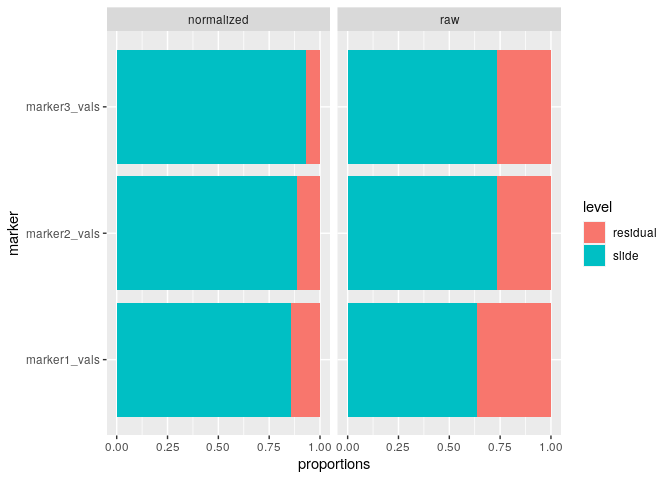
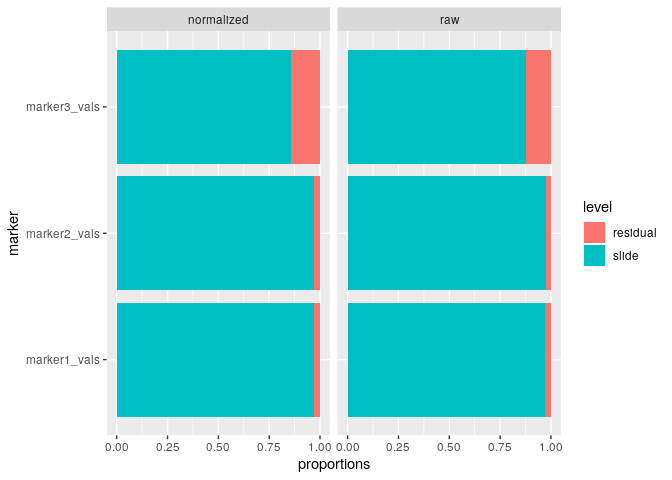
update readme

Changed region(s): [[0.6875, 0.0938, 0.8125, 0.875], [0.4062, 0.0938, 0.4688, 0.875]]

diff --git a/README.md b/README.md
@@ -31,12 +31,12 @@ effects.
 library(mxnorm)
 head(mx_sample)
 #>   slide_id image_id marker1_vals marker2_vals marker3_vals metadata1_vals
-#> 1   slide1   image1           91          171         7766            yes
-#> 2   slide1   image1           94          560          267            yes
-#> 3   slide1   image1           29          572          597            yes
-#> 4   slide1   image1           83          922         8551            yes
-#> 5   slide1   image1           64          575         9454            yes
-#> 6   slide1   image1           52          971         9870            yes
+#> 1   slide1   image1           15           17           28            yes
+#> 2   slide1   image1           11           22           31             no
+#> 3   slide1   image1           12           16           22            yes
+#> 4   slide1   image1           11           19           33            yes
+#> 5   slide1   image1           12           21           24            yes
+#> 6   slide1   image1           11           17           19            yes
 ```
 
 ## `mx_dataset` objects
@@ -60,10 +60,10 @@ str(mx_dataset)
 #>  $ data         :'data.frame':   3000 obs. of  6 variables:
 #>   ..$ slide_id      : chr [1:3000] "slide1" "slide1" "slide1" "slide1" ...
 #>   ..$ image_id      : chr [1:3000] "image1" "image1" "image1" "image1" ...
-#>   ..$ marker1_vals  : num [1:3000] 91 94 29 83 64 52 74 13 66 71 ...
-#>   ..$ marker2_vals  : num [1:3000] 171 560 572 922 575 971 471 788 499 32 ...
-#>   ..$ marker3_vals  : num [1:3000] 7766 267 597 8551 9454 ...
-#>   ..$ metadata1_vals: chr [1:3000] "yes" "yes" "yes" "yes" ...
+#>   ..$ marker1_vals  : num [1:3000] 15 11 12 11 12 11 16 12 11 10 ...
+#>   ..$ marker2_vals  : num [1:3000] 17 22 16 19 21 17 18 19 19 23 ...
+#>   ..$ marker3_vals  : num [1:3000] 28 31 22 33 24 19 36 32 22 25 ...
+#>   ..$ metadata1_vals: chr [1:3000] "yes" "no" "yes" "yes" ...
 #>  $ slide_id     : chr "slide_id"
 #>  $ image_id     : chr "image_id"
 #>  $ marker_cols  : chr [1:3] "marker1_vals" "marker2_vals" "marker3_vals"
@@ -86,12 +86,12 @@ The `mx_dataset` object has normalized data in the following form:
 ``` r
 head(mx_norm$norm_data)
 #>   slide_id image_id marker1_vals marker2_vals marker3_vals metadata1_vals
-#> 1   slide1   image1     1.963788     2.235528     3.890253            yes
-#> 2   slide1   image1     1.977724     2.748963     2.428135            yes
-#> 3   slide1   image1     1.477121     2.758155     2.776701            yes
-#> 4   slide1   image1     1.924279     2.965202     3.932068            yes
-#> 5   slide1   image1     1.812913     2.760422     3.975662            yes
-#> 6   slide1   image1     1.724276     2.987666     3.994361            yes
+#> 1   slide1   image1     1.204120     1.255273     1.462398            yes
+#> 2   slide1   image1     1.079181     1.361728     1.505150             no
+#> 3   slide1   image1     1.113943     1.230449     1.361728            yes
+#> 4   slide1   image1     1.079181     1.301030     1.531479            yes
+#> 5   slide1   image1     1.113943     1.342423     1.397940            yes
+#> 6   slide1   image1     1.079181     1.255273     1.301030            yes
 ```
 
 And the `mx_dataset` object now includes the following attributes:
@@ -102,10 +102,10 @@ str(mx_norm)
 #>  $ data         :'data.frame':   3000 obs. of  6 variables:
 #>   ..$ slide_id      : chr [1:3000] "slide1" "slide1" "slide1" "slide1" ...
 #>   ..$ image_id      : chr [1:3000] "image1" "image1" "image1" "image1" ...
-#>   ..$ marker1_vals  : num [1:3000] 91 94 29 83 64 52 74 13 66 71 ...
-#>   ..$ marker2_vals  : num [1:3000] 171 560 572 922 575 971 471 788 499 32 ...
-#>   ..$ marker3_vals  : num [1:3000] 7766 267 597 8551 9454 ...
-#>   ..$ metadata1_vals: chr [1:3000] "yes" "yes" "yes" "yes" ...
+#>   ..$ marker1_vals  : num [1:3000] 15 11 12 11 12 11 16 12 11 10 ...
+#>   ..$ marker2_vals  : num [1:3000] 17 22 16 19 21 17 18 19 19 23 ...
+#>   ..$ marker3_vals  : num [1:3000] 28 31 22 33 24 19 36 32 22 25 ...
+#>   ..$ metadata1_vals: chr [1:3000] "yes" "no" "yes" "yes" ...
 #>  $ slide_id     : chr "slide_id"
 #>  $ image_id     : chr "image_id"
 #>  $ marker_cols  : chr [1:3] "marker1_vals" "marker2_vals" "marker3_vals"
@@ -113,10 +113,10 @@ str(mx_norm)
 #>  $ norm_data    :'data.frame':   3000 obs. of  6 variables:
 #>   ..$ slide_id      : chr [1:3000] "slide1" "slide1" "slide1" "slide1" ...
 #>   ..$ image_id      : chr [1:3000] "image1" "image1" "image1" "image1" ...
-#>   ..$ marker1_vals  : num [1:3000] 1.96 1.98 1.48 1.92 1.81 ...
-#>   ..$ marker2_vals  : num [1:3000] 2.24 2.75 2.76 2.97 2.76 ...
-#>   ..$ marker3_vals  : num [1:3000] 3.89 2.43 2.78 3.93 3.98 ...
-#>   ..$ metadata1_vals: chr [1:3000] "yes" "yes" "yes" "yes" ...
+#>   ..$ marker1_vals  : num [1:3000] 1.2 1.08 1.11 1.08 1.11 ...
+#>   ..$ marker2_vals  : num [1:3000] 1.26 1.36 1.23 1.3 1.34 ...
+#>   ..$ marker3_vals  : num [1:3000] 1.46 1.51 1.36 1.53 1.4 ...
+#>   ..$ metadata1_vals: chr [1:3000] "yes" "no" "yes" "yes" ...
 #>  $ scale        : chr "log10"
 #>  $ method       : chr "None"
 #>  - attr(*, "class")= chr "mx_dataset"
@@ -140,12 +140,12 @@ the following form:
 ``` r
 head(mx_otsu$otsu_data)
 #>   slide_id       marker table slide_threshold marker_threshold misclass_error
-#> 1   slide1 marker1_vals   raw    5.019531e+01         288.5742      0.4773333
-#> 2   slide2 marker1_vals   raw    5.859375e-03         288.5742      0.6280000
-#> 3   slide3 marker1_vals   raw    8.702734e+01         288.5742      0.7440000
-#> 4   slide4 marker1_vals   raw    3.740371e+02         288.5742      0.1146667
-#> 5   slide1 marker2_vals   raw    4.829395e+02         341.7969      0.1266667
-#> 6   slide2 marker2_vals   raw    4.003906e+00         341.7969      0.6773333
+#> 1   slide1 marker1_vals   raw        12.01758         54.89844      0.4506667
+#> 2   slide2 marker1_vals   raw        20.01367         54.89844      0.4306667
+#> 3   slide3 marker1_vals   raw        87.05664         54.89844      0.2573333
+#> 4   slide4 marker1_vals   raw        44.00391         54.89844      0.3386667
+#> 5   slide1 marker2_vals   raw        19.00977         52.90039      0.5333333
+#> 6   slide2 marker2_vals   raw        19.99219         52.90039      0.5320000
 ```
 
 And the `mx_dataset` object now includes the following attributes:
@@ -156,10 +156,10 @@ str(mx_otsu)
 #>  $ data         :'data.frame':   3000 obs. of  6 variables:
 #>   ..$ slide_id      : chr [1:3000] "slide1" "slide1" "slide1" "slide1" ...
 #>   ..$ image_id      : chr [1:3000] "image1" "image1" "image1" "image1" ...
-#>   ..$ marker1_vals  : num [1:3000] 91 94 29 83 64 52 74 13 66 71 ...
-#>   ..$ marker2_vals  : num [1:3000] 171 560 572 922 575 971 471 788 499 32 ...
-#>   ..$ marker3_vals  : num [1:3000] 7766 267 597 8551 9454 ...
-#>   ..$ metadata1_vals: chr [1:3000] "yes" "yes" "yes" "yes" ...
+#>   ..$ marker1_vals  : num [1:3000] 15 11 12 11 12 11 16 12 11 10 ...
+#>   ..$ marker2_vals  : num [1:3000] 17 22 16 19 21 17 18 19 19 23 ...
+#>   ..$ marker3_vals  : num [1:3000] 28 31 22 33 24 19 36 32 22 25 ...
+#>   ..$ metadata1_vals: chr [1:3000] "yes" "no" "yes" "yes" ...
 #>  $ slide_id     : chr "slide_id"
 #>  $ image_id     : chr "image_id"
 #>  $ marker_cols  : chr [1:3] "marker1_vals" "marker2_vals" "marker3_vals"
@@ -167,19 +167,19 @@ str(mx_otsu)
 #>  $ norm_data    :'data.frame':   3000 obs. of  6 variables:
 #>   ..$ slide_id      : chr [1:3000] "slide1" "slide1" "slide1" "slide1" ...
 #>   ..$ image_id      : chr [1:3000] "image1" "image1" "image1" "image1" ...
-#>   ..$ marker1_vals  : num [1:3000] 1.96 1.98 1.48 1.92 1.81 ...
-#>   ..$ marker2_vals  : num [1:3000] 2.24 2.75 2.76 2.97 2.76 ...
-#>   ..$ marker3_vals  : num [1:3000] 3.89 2.43 2.78 3.93 3.98 ...
-#>   ..$ metadata1_vals: chr [1:3000] "yes" "yes" "yes" "yes" ...
+#>   ..$ marker1_vals  : num [1:3000] 1.2 1.08 1.11 1.08 1.11 ...
+#>   ..$ marker2_vals  : num [1:3000] 1.26 1.36 1.23 1.3 1.34 ...
+#>   ..$ marker3_vals  : num [1:3000] 1.46 1.51 1.36 1.53 1.4 ...
+#>   ..$ metadata1_vals: chr [1:3000] "yes" "no" "yes" "yes" ...
 #>  $ scale        : chr "log10"
 #>  $ method       : chr "None"
 #>  $ otsu_data    :'data.frame':   24 obs. of  6 variables:
 #>   ..$ slide_id        : chr [1:24] "slide1" "slide2" "slide3" "slide4" ...
 #>   ..$ marker          : chr [1:24] "marker1_vals" "marker1_vals" "marker1_vals" "marker1_vals" ...
 #>   ..$ table           : chr [1:24] "raw" "raw" "raw" "raw" ...
-#>   ..$ slide_threshold : num [1:24] 5.02e+01 5.86e-03 8.70e+01 3.74e+02 4.83e+02 ...
-#>   ..$ marker_threshold: num [1:24] 289 289 289 289 342 ...
-#>   ..$ misclass_error  : num [1:24] 0.477 0.628 0.744 0.115 0.127 ...
+#>   ..$ slide_threshold : num [1:24] 12 20 87.1 44 19 ...
+#>   ..$ marker_threshold: num [1:24] 54.9 54.9 54.9 54.9 52.9 ...
+#>   ..$ misclass_error  : num [1:24] 0.451 0.431 0.257 0.339 0.533 ...
 #>  $ otsu_table   : chr "both"
 #>  $ threshold    : chr "otsu"
 #>  - attr(*, "class")= chr "mx_dataset"
@@ -201,24 +201,25 @@ mx_umap = run_reduce_umap(mx_otsu,
 ```
 
 This adds UMAP dimensions to our `mx_dataset` object in the following
-form:
+form (note the inclusion of `slide_id` as an identifier, which we’ll use
+later):
 
 ``` r
 head(mx_umap$umap_data)
-#>      marker1_vals marker2_vals marker3_vals metadata1_vals table          U1
-#> 1717           98           68           74             no   raw  -5.8276359
-#> 2279           29           29           29             no   raw  -0.6148791
-#> 335            68          146         7149            yes   raw   7.3799556
-#> 1055            0            6            6            yes   raw -16.3709385
-#> 251            33          905         9365            yes   raw   8.8375052
-#> 1088            0            4            4            yes   raw  -3.3954894
-#>              U2
-#> 1717  -2.776944
-#> 2279   4.420231
-#> 335  -17.569706
-#> 1055   5.339620
-#> 251  -22.088848
-#> 1088  17.994051
+#>      marker1_vals marker2_vals marker3_vals metadata1_vals slide_id table
+#> 970            19           20           29             no   slide2   raw
+#> 252            10           22           24            yes   slide1   raw
+#> 1530           77           99           26            yes   slide3   raw
+#> 2047           95           64           57            yes   slide3   raw
+#> 2336           58           94           82             no   slide4   raw
+#> 1098           15           13           28            yes   slide2   raw
+#>              U1        U2
+#> 970   -9.807456  1.184323
+#> 252  -12.903388 -6.301204
+#> 1530   8.887341 11.085225
+#> 2047  10.602274  7.860260
+#> 2336   9.784737 -5.957173
+#> 1098 -11.371432 -2.673467
 ```
 
 And the `mx_dataset` object now includes the following attributes:
@@ -229,10 +230,10 @@ str(mx_umap)
 #>  $ data         :'data.frame':   3000 obs. of  6 variables:
 #>   ..$ slide_id      : chr [1:3000] "slide1" "slide1" "slide1" "slide1" ...
 #>   ..$ image_id      : chr [1:3000] "image1" "image1" "image1" "image1" ...
-#>   ..$ marker1_vals  : num [1:3000] 91 94 29 83 64 52 74 13 66 71 ...
-#>   ..$ marker2_vals  : num [1:3000] 171 560 572 922 575 971 471 788 499 32 ...
-#>   ..$ marker3_vals  : num [1:3000] 7766 267 597 8551 9454 ...
-#>   ..$ metadata1_vals: chr [1:3000] "yes" "yes" "yes" "yes" ...
+#>   ..$ marker1_vals  : num [1:3000] 15 11 12 11 12 11 16 12 11 10 ...
+#>   ..$ marker2_vals  : num [1:3000] 17 22 16 19 21 17 18 19 19 23 ...
+#>   ..$ marker3_vals  : num [1:3000] 28 31 22 33 24 19 36 32 22 25 ...
+#>   ..$ metadata1_vals: chr [1:3000] "yes" "no" "yes" "yes" ...
 #>  $ slide_id     : chr "slide_id"
 #>  $ image_id     : chr "image_id"
 #>  $ marker_cols  : chr [1:3] "marker1_vals" "marker2_vals" "marker3_vals"
@@ -240,29 +241,30 @@ str(mx_umap)
 #>  $ norm_data    :'data.frame':   3000 obs. of  6 variables:
 #>   ..$ slide_id      : chr [1:3000] "slide1" "slide1" "slide1" "slide1" ...
 #>   ..$ image_id      : chr [1:3000] "image1" "image1" "image1" "image1" ...
-#>   ..$ marker1_vals  : num [1:3000] 1.96 1.98 1.48 1.92 1.81 ...
-#>   ..$ marker2_vals  : num [1:3000] 2.24 2.75 2.76 2.97 2.76 ...
-#>   ..$ marker3_vals  : num [1:3000] 3.89 2.43 2.78 3.93 3.98 ...
-#>   ..$ metadata1_vals: chr [1:3000] "yes" "yes" "yes" "yes" ...
+#>   ..$ marker1_vals  : num [1:3000] 1.2 1.08 1.11 1.08 1.11 ...
+#>   ..$ marker2_vals  : num [1:3000] 1.26 1.36 1.23 1.3 1.34 ...
+#>   ..$ marker3_vals  : num [1:3000] 1.46 1.51 1.36 1.53 1.4 ...
+#>   ..$ metadata1_vals: chr [1:3000] "yes" "no" "yes" "yes" ...
 #>  $ scale        : chr "log10"
 #>  $ method       : chr "None"
 #>  $ otsu_data    :'data.frame':   24 obs. of  6 variables:
 #>   ..$ slide_id        : chr [1:24] "slide1" "slide2" "slide3" "slide4" ...
 #>   ..$ marker          : chr [1:24] "marker1_vals" "marker1_vals" "marker1_vals" "marker1_vals" ...
 #>   ..$ table           : chr [1:24] "raw" "raw" "raw" "raw" ...
-#>   ..$ slide_threshold : num [1:24] 5.02e+01 5.86e-03 8.70e+01 3.74e+02 4.83e+02 ...
-#>   ..$ marker_threshold: num [1:24] 289 289 289 289 342 ...
-#>   ..$ misclass_error  : num [1:24] 0.477 0.628 0.744 0.115 0.127 ...
+#>   ..$ slide_threshold : num [1:24] 12 20 87.1 44 19 ...
+#>   ..$ marker_threshold: num [1:24] 54.9 54.9 54.9 54.9 52.9 ...
+#>   ..$ misclass_error  : num [1:24] 0.451 0.431 0.257 0.339 0.533 ...
 #>  $ otsu_table   : chr "both"
 #>  $ threshold    : chr "otsu"
-#>  $ umap_data    :'data.frame':   4800 obs. of  7 variables:
-#>   ..$ marker1_vals  : num [1:4800] 98 29 68 0 33 0 300 8 70 96 ...
-#>   ..$ marker2_vals  : num [1:4800] 68 29 146 6 905 4 300 644 160 46 ...
-#>   ..$ marker3_vals  : num [1:4800] 74 29 7149 6 9365 ...
-#>   ..$ metadata1_vals: chr [1:4800] "no" "no" "yes" "yes" ...
+#>  $ umap_data    :'data.frame':   4800 obs. of  8 variables:
+#>   ..$ marker1_vals  : num [1:4800] 19 10 77 95 58 15 83 58 11 99 ...
+#>   ..$ marker2_vals  : num [1:4800] 20 22 99 64 94 13 91 75 16 98 ...
+#>   ..$ marker3_vals  : num [1:4800] 29 24 26 57 82 28 39 83 25 68 ...
+#>   ..$ metadata1_vals: chr [1:4800] "no" "yes" "yes" "yes" ...
+#>   ..$ slide_id      : chr [1:4800] "slide2" "slide1" "slide3" "slide3" ...
 #>   ..$ table         : chr [1:4800] "raw" "raw" "raw" "raw" ...
-#>   ..$ U1            : num [1:4800] -5.828 -0.615 7.38 -16.371 8.838 ...
-#>   ..$ U2            : num [1:4800] -2.78 4.42 -17.57 5.34 -22.09 ...
+#>   ..$ U1            : num [1:4800] -9.81 -12.9 8.89 10.6 9.78 ...
+#>   ..$ U2            : num [1:4800] 1.18 -6.3 11.09 7.86 -5.96 ...
 #>  $ umap_table   : chr "both"
 #>  - attr(*, "class")= chr "mx_dataset"
 ```
@@ -285,12 +287,12 @@ form:
 ``` r
 head(mx_var$var_data)
 #>    proportions    level       marker table
-#> 1:   0.6349562    slide marker1_vals   raw
-#> 2:   0.3650438 residual marker1_vals   raw
-#> 3:   0.7357441    slide marker2_vals   raw
-#> 4:   0.2642559 residual marker2_vals   raw
-#> 5:   0.7338357    slide marker3_vals   raw
-#> 6:   0.2661643 residual marker3_vals   raw
+#> 1:  0.97044681    slide marker1_vals   raw
+#> 2:  0.02955319 residual marker1_vals   raw
+#> 3:  0.97344941    slide marker2_vals   raw
+#> 4:  0.02655059 residual marker2_vals   raw
+#> 5:  0.87733930    slide marker3_vals   raw
+#> 6:  0.12266070 residual marker3_vals   raw
 ```
 
 And the `mx_dataset` object now includes the following attributes:
@@ -301,10 +303,10 @@ str(mx_var)
 #>  $ data         :'data.frame':   3000 obs. of  6 variables:
 #>   ..$ slide_id      : chr [1:3000] "slide1" "slide1" "slide1" "slide1" ...
 #>   ..$ image_id      : chr [1:3000] "image1" "image1" "image1" "image1" ...
-#>   ..$ marker1_vals  : num [1:3000] 91 94 29 83 64 52 74 13 66 71 ...
-#>   ..$ marker2_vals  : num [1:3000] 171 560 572 922 575 971 471 788 499 32 ...
-#>   ..$ marker3_vals  : num [1:3000] 7766 267 597 8551 9454 ...
-#>   ..$ metadata1_vals: chr [1:3000] "yes" "yes" "yes" "yes" ...
+#>   ..$ marker1_vals  : num [1:3000] 15 11 12 11 12 11 16 12 11 10 ...
+#>   ..$ marker2_vals  : num [1:3000] 17 22 16 19 21 17 18 19 19 23 ...
+#>   ..$ marker3_vals  : num [1:3000] 28 31 22 33 24 19 36 32 22 25 ...
+#>   ..$ metadata1_vals: chr [1:3000] "yes" "no" "yes" "yes" ...
 #>  $ slide_id     : chr "slide_id"
 #>  $ image_id     : chr "image_id"
 #>  $ marker_cols  : chr [1:3] "marker1_vals" "marker2_vals" "marker3_vals"
@@ -312,32 +314,33 @@ str(mx_var)
 #>  $ norm_data    :'data.frame':   3000 obs. of  6 variables:
 #>   ..$ slide_id      : chr [1:3000] "slide1" "slide1" "slide1" "slide1" ...
 #>   ..$ image_id      : chr [1:3000] "image1" "image1" "image1" "image1" ...
-#>   ..$ marker1_vals  : num [1:3000] 1.96 1.98 1.48 1.92 1.81 ...
-#>   ..$ marker2_vals  : num [1:3000] 2.24 2.75 2.76 2.97 2.76 ...
-#>   ..$ marker3_vals  : num [1:3000] 3.89 2.43 2.78 3.93 3.98 ...
-#>   ..$ metadata1_vals: chr [1:3000] "yes" "yes" "yes" "yes" ...
+#>   ..$ marker1_vals  : num [1:3000] 1.2 1.08 1.11 1.08 1.11 ...
+#>   ..$ marker2_vals  : num [1:3000] 1.26 1.36 1.23 1.3 1.34 ...
+#>   ..$ marker3_vals  : num [1:3000] 1.46 1.51 1.36 1.53 1.4 ...
+#>   ..$ metadata1_vals: chr [1:3000] "yes" "no" "yes" "yes" ...
 #>  $ scale        : chr "log10"
 #>  $ method       : chr "None"
 #>  $ otsu_data    :'data.frame':   24 obs. of  6 variables:
 #>   ..$ slide_id        : chr [1:24] "slide1" "slide2" "slide3" "slide4" ...
 #>   ..$ marker          : chr [1:24] "marker1_vals" "marker1_vals" "marker1_vals" "marker1_vals" ...
 #>   ..$ table           : chr [1:24] "raw" "raw" "raw" "raw" ...
-#>   ..$ slide_threshold : num [1:24] 5.02e+01 5.86e-03 8.70e+01 3.74e+02 4.83e+02 ...
-#>   ..$ marker_threshold: num [1:24] 289 289 289 289 342 ...
-#>   ..$ misclass_error  : num [1:24] 0.477 0.628 0.744 0.115 0.127 ...
+#>   ..$ slide_threshold : num [1:24] 12 20 87.1 44 19 ...
+#>   ..$ marker_threshold: num [1:24] 54.9 54.9 54.9 54.9 52.9 ...
+#>   ..$ misclass_error  : num [1:24] 0.451 0.431 0.257 0.339 0.533 ...
 #>  $ otsu_table   : chr "both"
 #>  $ threshold    : chr "otsu"
-#>  $ umap_data    :'data.frame':   4800 obs. of  7 variables:
-#>   ..$ marker1_vals  : num [1:4800] 98 29 68 0 33 0 300 8 70 96 ...
-#>   ..$ marker2_vals  : num [1:4800] 68 29 146 6 905 4 300 644 160 46 ...
-#>   ..$ marker3_vals  : num [1:4800] 74 29 7149 6 9365 ...
-#>   ..$ metadata1_vals: chr [1:4800] "no" "no" "yes" "yes" ...
+#>  $ umap_data    :'data.frame':   4800 obs. of  8 variables:
+#>   ..$ marker1_vals  : num [1:4800] 19 10 77 95 58 15 83 58 11 99 ...
+#>   ..$ marker2_vals  : num [1:4800] 20 22 99 64 94 13 91 75 16 98 ...
+#>   ..$ marker3_vals  : num [1:4800] 29 24 26 57 82 28 39 83 25 68 ...
+#>   ..$ metadata1_vals: chr [1:4800] "no" "yes" "yes" "yes" ...
+#>   ..$ slide_id      : chr [1:4800] "slide2" "slide1" "slide3" "slide3" ...
 #>   ..$ table         : chr [1:4800] "raw" "raw" "raw" "raw" ...
-#>   ..$ U1            : num [1:4800] -5.828 -0.615 7.38 -16.371 8.838 ...
-#>   ..$ U2            : num [1:4800] -2.78 4.42 -17.57 5.34 -22.09 ...
+#>   ..$ U1            : num [1:4800] -9.81 -12.9 8.89 10.6 9.78 ...
+#>   ..$ U2            : num [1:4800] 1.18 -6.3 11.09 7.86 -5.96 ...
 #>  $ umap_table   : chr "both"
 #>  $ var_data     :Classes 'data.table' and 'data.frame':  12 obs. of  4 variables:
-#>   ..$ proportions: num [1:12] 0.635 0.365 0.736 0.264 0.734 ...
+#>   ..$ proportions: num [1:12] 0.9704 0.0296 0.9734 0.0266 0.8773 ...
 #>   ..$ level      : chr [1:12] "slide" "residual" "slide" "residual" ...
 #>   ..$ marker     : chr [1:12] "marker1_vals" "marker1_vals" "marker2_vals" "marker2_vals" ...
 #>   ..$ table      : chr [1:12] "raw" "raw" "raw" "raw" ...
@@ -375,6 +378,18 @@ plot_mx_umap(mx_umap,metadata_col = "metadata1_vals")
 ```
 
 <img src="man/figures/README-mx_umap-1.png" width="100%" />
+
+Note that since the sample data is simulated, we don’t see separation of
+the groups like we would expect with biological samples that have some
+underlying correlation. What we can observe, however, is the separation
+of slides in the `raw` data and subsequent mixing of these slides in the
+`normalized` data:
+
+``` r
+plot_mx_umap(mx_umap,metadata_col = "slide_id")
+```
+
+<img src="man/figures/README-mx_umap_slide-1.png" width="100%" />
 
 And we can also visualize the results of the variance proportions (note
 that this is sample data, hence the proportions of variance at the slide
